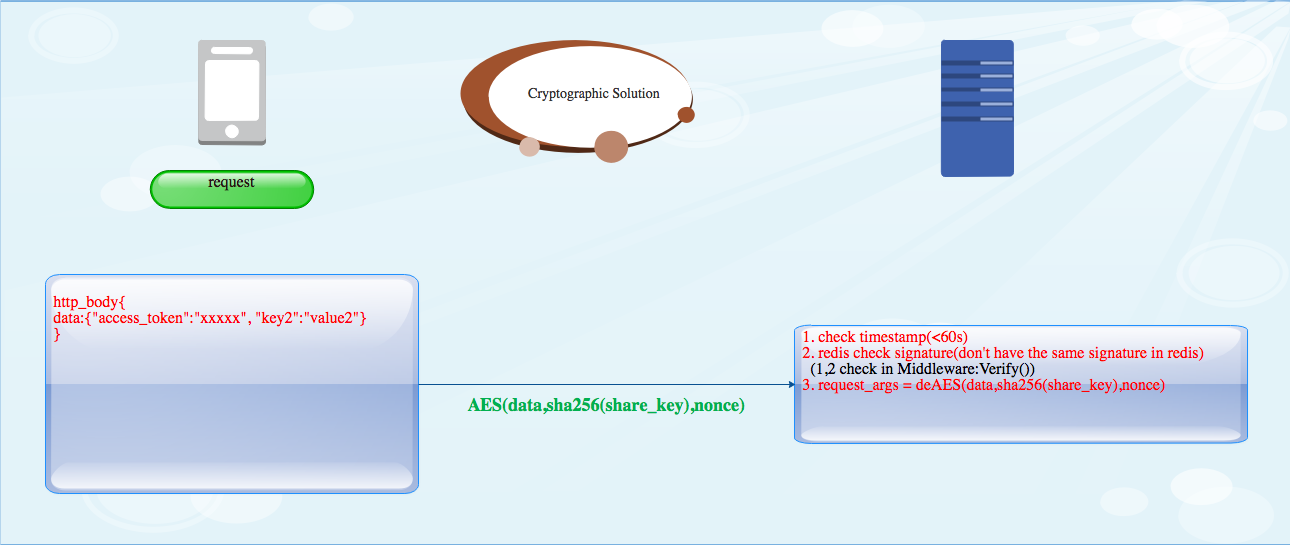
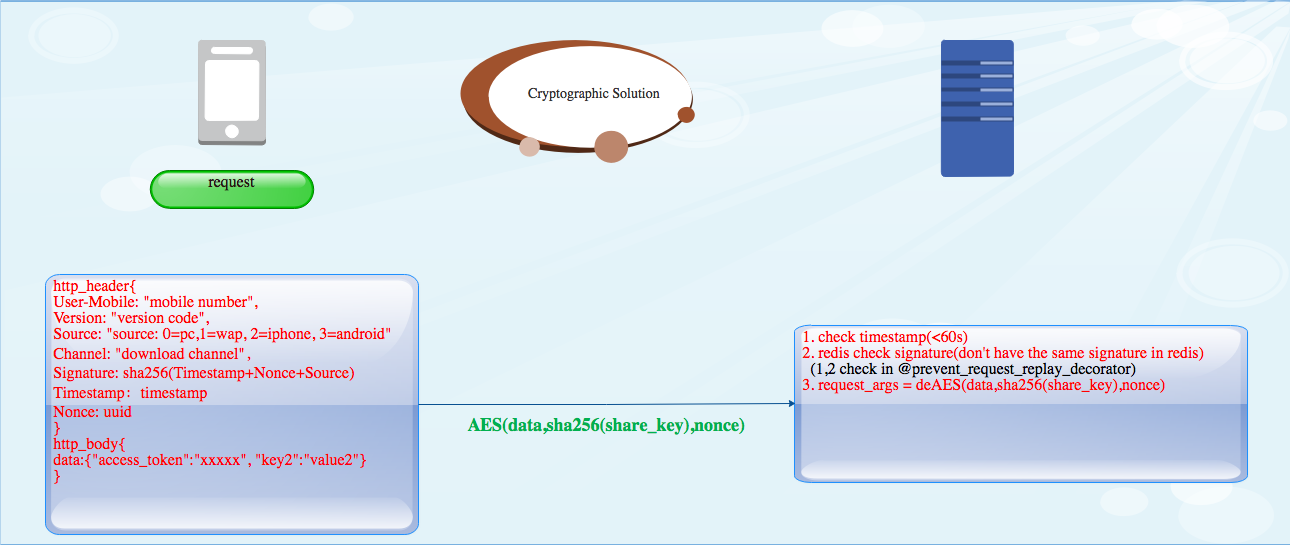
add android solution

Changed region(s): [[0.031, 0.4991, 0.9922, 0.9982], [0.5891, 0.7798, 0.9922, 0.9046]]

diff --git a/frontend/Android/CipherUtil.java b/frontend/Android/CipherUtil.java
@@ -1,0 +1,200 @@
+package com.cryptographysolution.encrypt;
+
+import android.util.Base64;
+import java.security.KeyFactory;
+import java.security.KeyPair;
+import java.security.KeyPairGenerator;
+import java.security.MessageDigest;
+import java.security.NoSuchAlgorithmException;
+import java.security.Security;
+import java.security.spec.ECGenParameterSpec;
+import java.security.spec.PKCS8EncodedKeySpec;
+import java.security.spec.X509EncodedKeySpec;
+import javax.crypto.Cipher;
+import javax.crypto.KeyAgreement;
+import javax.crypto.SecretKey;
+import javax.crypto.spec.IvParameterSpec;
+import javax.crypto.spec.SecretKeySpec;
+import org.spongycastle.jcajce.provider.asymmetric.ec.KeyPairGeneratorSpi.ECDH;
+import org.spongycastle.jce.interfaces.ECPrivateKey;
+import org.spongycastle.jce.interfaces.ECPublicKey;
+import org.spongycastle.jce.provider.BouncyCastleProvider;
+
+public class CipherUtil {
+    private static final String TRANSFORMATION = "ECDH";
+
+    public CipherUtil() {
+    }
+
+    public static KeyPair getKeyPair() throws Exception {
+        KeyPairGenerator instance = ECDH.getInstance("ECDH", "SC");
+        ECGenParameterSpec secp256k1 = new ECGenParameterSpec("secp384r1");
+        instance.initialize(secp256k1);
+        KeyPair keyPair = instance.generateKeyPair();
+        return keyPair;
+    }
+
+    public static String getPrivateKey(KeyPair pair) {
+        ECPrivateKey privateKey = (ECPrivateKey)pair.getPrivate();
+        byte[] bytes = privateKey.getEncoded();
+        String privateKeyAsPEMKey = getPrivateKeyAsPEM(byte2Base64(bytes));
+        return privateKeyAsPEMKey.trim();
+    }
+
+    public static String getPublicKey(KeyPair pair) {
+        ECPublicKey publicKey = (ECPublicKey)pair.getPublic();
+        byte[] bytes = publicKey.getEncoded();
+        String publicKeyAsPEM = getPublicKeyAsPEM(byte2Base64(bytes));
+        return publicKeyAsPEM.trim();
+    }
+
+    public static String getShareKey(String privateKeyStr, String publicKeyStr) throws Exception {
+        ECPrivateKey privateKey = string2PrivateKey(privateKeyStr);
+        ECPublicKey ecPublicKey = string2PublicKey(publicKeyStr);
+        KeyAgreement keyAgreement = KeyAgreement.getInstance("ECDH", "SC");
+        keyAgreement.init(privateKey);
+        keyAgreement.doPhase(ecPublicKey, true);
+        byte[] bytes = keyAgreement.generateSecret();
+        return byte2Base64(bytes).trim();
+    }
+
+    public static String keyEncrypt(String content, String shareKey, String nonce) {
+        SecretKey secretKey = new SecretKeySpec(hex2Bytes(encrypt(shareKey, "SHA-256")), "AES");
+        byte[] bytes = content.getBytes();
+
+        try {
+            Cipher cipher = Cipher.getInstance("AES/GCM/NoPadding", "SC");
+            cipher.init(1, secretKey, new IvParameterSpec(hex2Bytes(nonce)));
+            bytes = cipher.doFinal(bytes);
+        } catch (Exception var6) {
+            var6.printStackTrace();
+        }
+
+        return bytes2Hex(bytes).trim();
+    }
+
+    public static String keyDecrypt(String content, String shareKey, String nonce) {
+        SecretKey secretKey = new SecretKeySpec(hex2Bytes(encrypt(shareKey, "SHA-256")), "AES");
+        byte[] bytes = new byte[0];
+
+        try {
+            Cipher cipher = Cipher.getInstance("AES/GCM/NoPadding", "SC");
+            cipher.init(2, secretKey, new IvParameterSpec(hex2Bytes(nonce)));
+            bytes = cipher.doFinal(hex2Bytes(content));
+        } catch (Exception var6) {
+            var6.printStackTrace();
+        }
+
+        return (new String(bytes)).trim();
+    }
+
+    private static String getPrivateKeyAsPEM(String s) {
+        StringBuilder sb = new StringBuilder(s);
+        sb.insert(0, "-----BEGIN PRIVATE KEY-----\n");
+        sb.append("-----END PRIVATE KEY-----");
+        return sb.toString();
+    }
+
+    private static String getPublicKeyAsPEM(String s) {
+        StringBuilder sb = new StringBuilder(s);
+        sb.insert(0, "-----BEGIN PUBLIC KEY-----\n");
+        sb.append("-----END PUBLIC KEY-----");
+        return sb.toString();
+    }
+
+    private static ECPrivateKey string2PrivateKey(String priStr) throws Exception {
+        priStr = priStr.replace("-----BEGIN PRIVATE KEY-----", "");
+        priStr = priStr.replace("-----END PRIVATE KEY-----", "");
+        priStr = priStr.replace(" ", "");
+        byte[] keyBytes = base642Byte(priStr);
+        PKCS8EncodedKeySpec keySpec = new PKCS8EncodedKeySpec(keyBytes);
+        KeyFactory keyFactory = KeyFactory.getInstance("ECDH", "SC");
+        ECPrivateKey privateKey = (ECPrivateKey)keyFactory.generatePrivate(keySpec);
+        return privateKey;
+    }
+
+    private static ECPublicKey string2PublicKey(String pubStr) throws Exception {
+        pubStr = pubStr.replace("-----BEGIN PUBLIC KEY-----", "");
+        pubStr = pubStr.replace("-----END PUBLIC KEY-----", "");
+        pubStr = pubStr.replace(" ", "");
+        byte[] keyBytes = base642Byte(pubStr);
+        X509EncodedKeySpec keySpec = new X509EncodedKeySpec(keyBytes);
+        KeyFactory keyFactory = KeyFactory.getInstance("ECDH", "SC");
+        ECPublicKey publicKey = (ECPublicKey)keyFactory.generatePublic(keySpec);
+        return publicKey;
+    }
+
+    private static String bytes2Hex(byte[] bts) {
+        String des = "";
+        String tmp = null;
+
+        for(int i = 0; i < bts.length; ++i) {
+            tmp = Integer.toHexString(bts[i] & 255);
+            if (tmp.length() == 1) {
+                des = des + "0";
+            }
+
+            des = des + tmp;
+        }
+
+        return des;
+    }
+
+    private static byte[] hex2Bytes(String str) {
+        if (str != null && !str.trim().equals("")) {
+            byte[] bytes = new byte[str.length() / 2];
+
+            for(int i = 0; i < str.length() / 2; ++i) {
+                String subStr = str.substring(i * 2, i * 2 + 2);
+                bytes[i] = (byte)Integer.parseInt(subStr, 16);
+            }
+
+            return bytes;
+        } else {
+            return new byte[0];
+        }
+    }
+
+    private static String encrypt(String string, String type) {
+        if (string != null && string.length() != 0) {
+            MessageDigest md5 = null;
+
+            try {
+                md5 = MessageDigest.getInstance(type);
+                byte[] bytes = md5.digest(string.getBytes());
+                String result = "";
+                byte[] var5 = bytes;
+                int var6 = bytes.length;
+
+                for(int var7 = 0; var7 < var6; ++var7) {
+                    byte b = var5[var7];
+                    String temp = Integer.toHexString(b & 255);
+                    if (temp.length() == 1) {
+                        temp = "0" + temp;
+                    }
+
+                    result = result + temp;
+                }
+
+                return result;
+            } catch (NoSuchAlgorithmException var10) {
+                var10.printStackTrace();
+                return "";
+            }
+        } else {
+            return "";
+        }
+    }
+
+    private static byte[] base642Byte(String base64Str) {
+        return Base64.decode(base64Str, 0);
+    }
+
+    private static String byte2Base64(byte[] b) {
+        return Base64.encodeToString(b, 0);
+    }
+
+    static {
+        Security.insertProviderAt(new BouncyCastleProvider(), 1);
+    }
+}

diff --git a/frontend/Android/Demo.java b/frontend/Android/Demo.java
@@ -1,0 +1,36 @@
+package com.licaifan.rubikcube;
+
+import android.util.Log;
+
+import com.cryptographysolution.encrypt.BCrypt;
+import com.cryptographysolution.encrypt.CipherUtil;
+
+import java.security.KeyPair;
+
+
+public class Demo {
+
+    public static void test() {
+        try {
+            KeyPair keyPair = CipherUtil.getKeyPair();
+            String privateKey = CipherUtil.getPrivateKey(keyPair);
+            String publicKey = CipherUtil.getPublicKey(keyPair);
+
+            String shareKey = CipherUtil.getShareKey(privateKey, publicKey);
+
+            String data = "1234567890";
+            String s = CipherUtil.keyEncrypt(data, shareKey, "540929e21c04a3a4bef16fe3");
+            String s1 = CipherUtil.keyDecrypt(s, shareKey, "540929e21c04a3a4bef16fe3");
+            if (data.equals(s1)) {
+                Log.d("TAG", "success");
+            } else {
+                Log.d("TAG", "failed");
+            }
+            String password = "123456";
+            String hashpw = BCrypt.hashpw(password, "$2a$12$qOLGsPgVlOcQZD0Rr1XD.O");
+           
+        } catch (Exception e) {
+            e.printStackTrace();
+        }
+    }
+}
